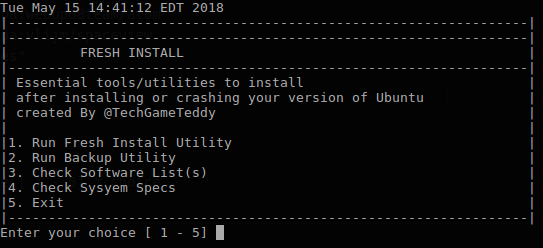
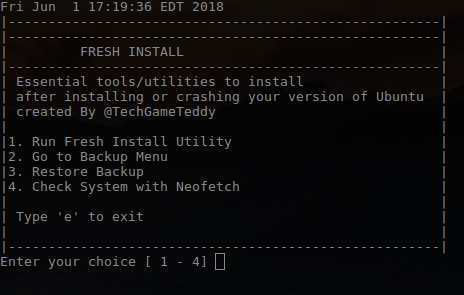
updated README

diff --git a/README.md b/README.md
@@ -1,11 +1,38 @@
 # FRESH INSTALL LINUX SCRIPT
-A list of tools and utilities to install after installing a new version of Ubuntu inspired by OMGUbuntu articles
 
-A menu driven script to backup and restore files from an Ubuntu   desktop
+A menu driven script to backup and restore files from an Ubuntu desktop
  add to your github account for personal use
  inspired by OMG Ubuntu's infamous
  Top Things to do after Installing Ubuntu xx.xx articles
  check them out at http://www.omgubuntu.co.uk/2017/04/things-to-do-after-installing-ubuntu-17-04
+
+## Origin ##
+ I have been using Ubuntu since 10.04 and have noticed that when a new release is available
+ there are lists of different blogs and site that tell you the easiest way to upgrade is to
+ run the following commands
+
+ $ sudo apt update
+ $ sudo apt upgrade
+ $ sudo apt dist-upgrade
+
+ And everytime, without fail I would backup my data and try the dist-upgrade and fail.
+ Unity would crash or Gnome wouldnt know what to do with new or updated gcc packages
+ preventing me from logging in.
+
+ I bought a new laptop and wanted the same packages installed on my desktop to replicate on my
+ laptop. This script was then born with the simple task of savings all installed packages to a
+ text file, my curiousity, and trigger fingers.
+
+ Enjoy!
+ 
+## Features ##
+ * Backup Currently installed packages
+ * Backup Snap Packages
+ * Backup Alias Shortcuts for user running the script
+ * Install [Snapd](https://github.com/snapcore/snapd)
+ * Install [Neofetch](https://github.com/dylanaraps/neofetch)
+ * Restore Backed up snaps and packages from broken machine or new pc
+
 
 ## Screenshots ##
 
@@ -13,10 +40,6 @@ Main Menu
 
 ![screenshot](https://github.com/tmeralus/fresh-install-linux/blob/master/img/main-menu.png)
 
-Software List
+Backup Utility
 
-![screenshot](https://github.com/tmeralus/fresh-install-linux/blob/master/img/software-check-list.png)
-
-Automated Fresh Install List
-
-![screenshot](https://github.com/tmeralus/fresh-install-linux/blob/master/img/fresh-install-menu.png)
+![screenshot](https://github.com/tmeralus/fresh-install-linux/blob/master/img/backup-utility.png)
